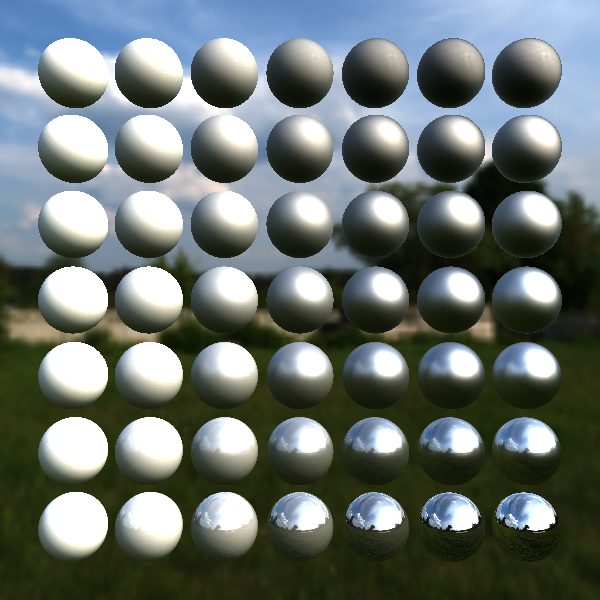
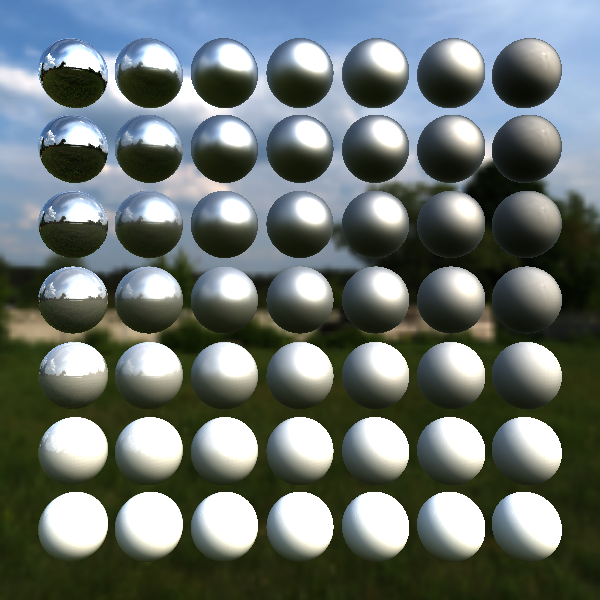
fixed metallic/roughness spheres test

diff --git a/crates/renderling/src/lib.rs b/crates/renderling/src/lib.rs
@@ -1373,7 +1373,6 @@ mod test {
                         albedo_factor: Vec4::new(1.0, 1.0, 1.0, 1.0),
                         metallic_factor: metallic,
                         roughness_factor: roughness,
-                        lighting_model: LightingModel::NO_LIGHTING,
                         ..Default::default()
                     });
                 let _entity = builder

diff --git a/crates/renderling-shader/src/pbr.rs b/crates/renderling-shader/src/pbr.rs
@@ -68,7 +68,7 @@ impl Default for PbrMaterial {
             metallic_roughness_tex_coord: 0,
             normal_tex_coord: 0,
             ao_tex_coord: 0,
-            lighting_model: LightingModel::NO_LIGHTING,
+            lighting_model: LightingModel::PBR_LIGHTING,
             ao_strength: 0.0,
             emissive_texture: Id::NONE,
             emissive_tex_coord: 0,
